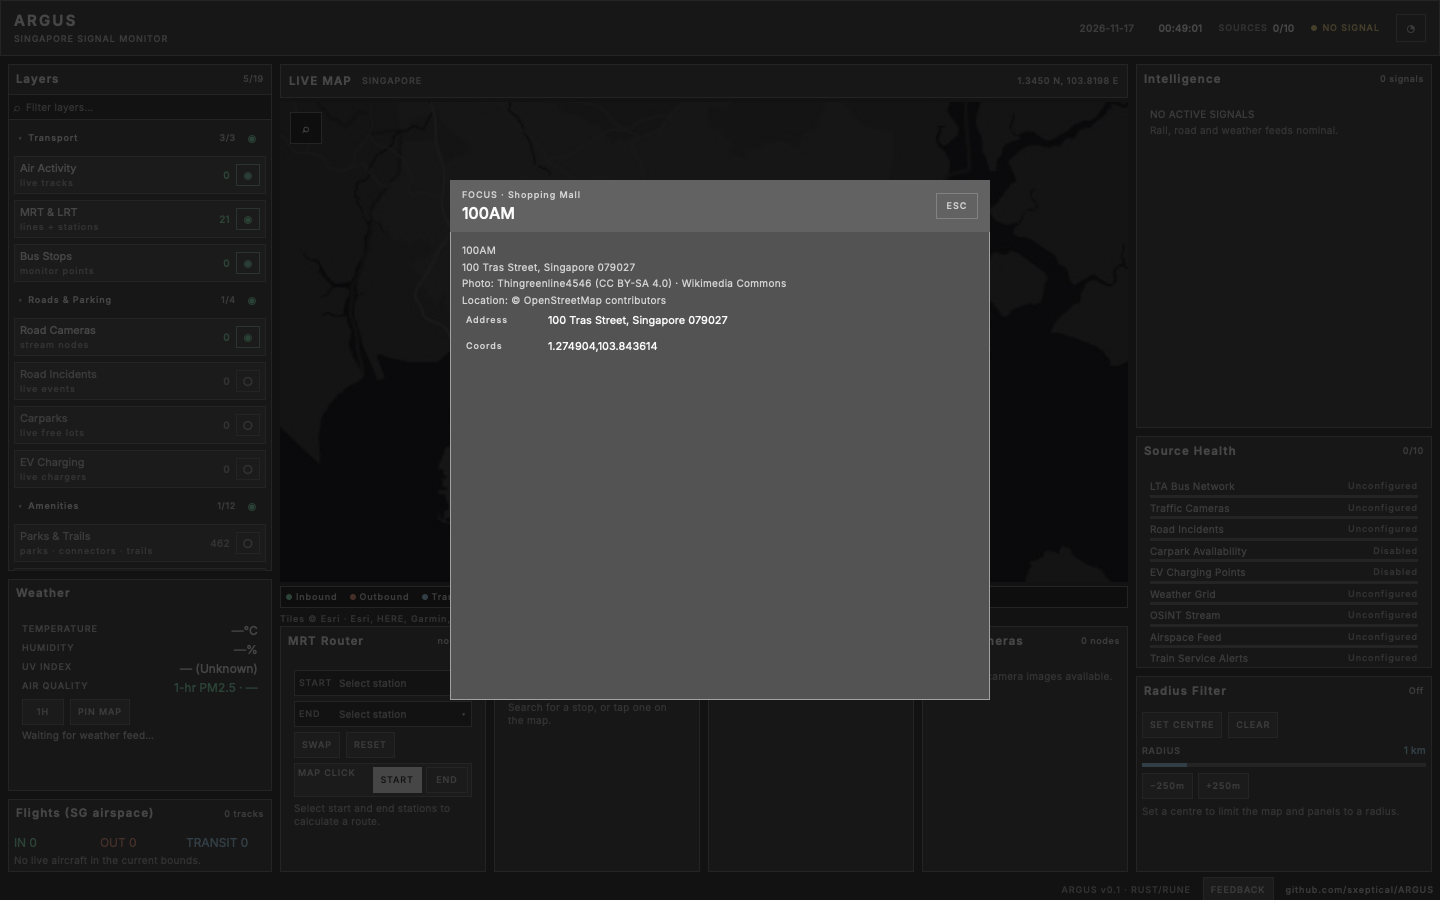
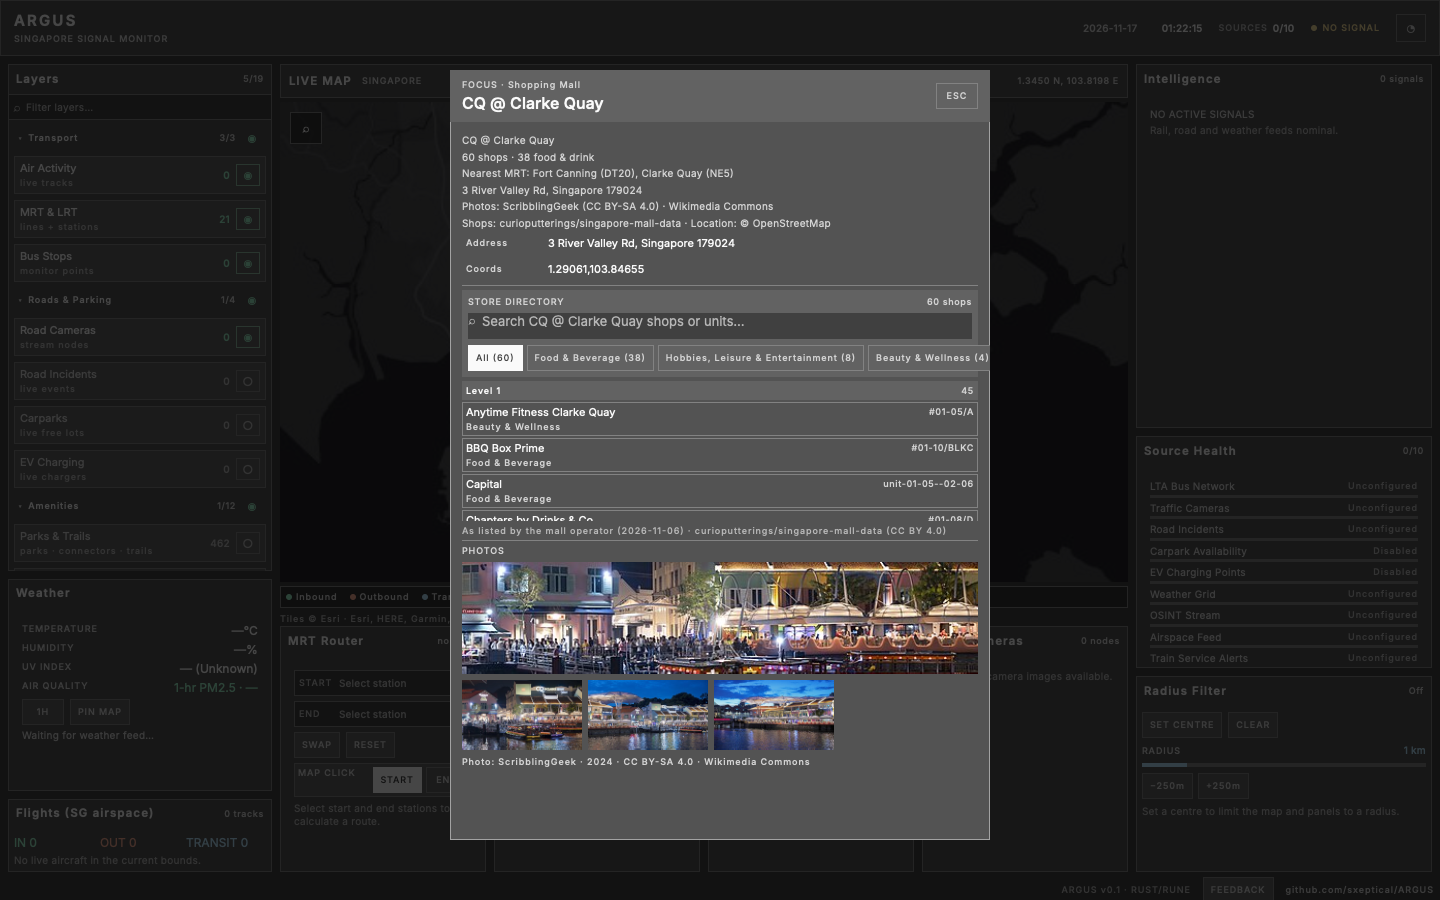
Phase 4b: scene snaps, state tests and verification notes

Changed region(s): [[0.3125, 0.0622, 0.6875, 0.9333], [0.6562, 0.3111, 0.6875, 0.3422]]

diff --git a/crates/argus-app/src/panels/dialogs.rs b/crates/argus-app/src/panels/dialogs.rs
@@ -71,7 +71,7 @@ fn focus_dialog(s: &AppState) -> Option<El> {
                 .map(|group| group.iter().filter(|o| o.id != *id).take(4).cloned().collect())
                 .unwrap_or_default();
             if !others.is_empty() {
-                body = body.child(rule()).child(label(format!("Also here ({})", others.len())));
+                body = body.child(rule_key("focus/rule/also-here")).child(label(format!("Also here ({})", others.len())));
                 for other in others {
                     let target = other.key.rsplit_once(':').map(|(_, id)| id.to_string());
                     body = body.child(text(&other.key).font(TINY).color(MUTED).truncate());
@@ -81,10 +81,10 @@ fn focus_dialog(s: &AppState) -> Option<El> {
                 }
             }
             if *kind == argus_core::types::AmenityType::Mall {
-                body = body.child(rule()).child(mall_store_directory(s, id, place.name()));
+                body = body.child(rule_key("focus/rule/mall-dir")).child(mall_store_directory(s, id, place.name()));
             }
             if !place.photos().is_empty() {
-                body = body.child(rule()).child(photo_gallery(s, place.name()));
+                body = body.child(rule_key("focus/rule/photos")).child(photo_gallery(s, place.name()));
             }
             (amenity_label(*kind).to_string(), place.name().to_string(), body)
         }
@@ -118,7 +118,7 @@ fn focus_dialog(s: &AppState) -> Option<El> {
                 }
             }
             if !s.gallery_photos.is_empty() {
-                body = body.child(rule()).child(photo_gallery(s, name));
+                body = body.child(rule_key("focus/rule/photos")).child(photo_gallery(s, name));
             }
             use argus_core::types::ParkFeatureKind;
             let label = match kind {
@@ -166,7 +166,7 @@ fn focus_dialog(s: &AppState) -> Option<El> {
         }
     };
 
-    let card = modal_card("focus/card", 450.0, 180.0, 540.0, 520.0)
+    let card = modal_card("focus/card", 450.0, 70.0, 540.0, 770.0)
         .child(dialog_header(&title, &format!("FOCUS · {subtitle}"), Msg::ClearSelection))
         .child(col().key("focus/scroll").w_full().min_h(0.0).grow(1.0).scroll(rune::ScrollSpec { stick_bottom: false })
             .child(body));
@@ -183,7 +183,7 @@ fn photo_gallery(s: &AppState, name: &str) -> El {
     let active_i = active_index(&s.photo_gallery, photos.len());
     let active = photos[active_i];
 
-    let mut large = el().key("gallery/large").w_full().h(140.0).min_h(0.0).fill(SURFACE_RAISED)
+    let mut large = el().key("gallery/large").w_full().h(112.0).min_h(0.0).fill(SURFACE_RAISED)
         .border(1.0, LINE);
     if let Some(image) = s.images.image(&active.thumb) {
         large = large.pixels_fit(image.pixels(), rune::SurfaceFit::Fill)
@@ -264,7 +264,7 @@ fn mall_store_directory(s: &AppState, mall_id: &str, mall_name: &str) -> El {
     }
     head = head.child(chips);
 
-    let mut list = col().key("mall-dir/list").w_full().h(176.0).min_h(0.0).gap(2.0)
+    let mut list = col().key("mall-dir/list").w_full().h(140.0).min_h(0.0).gap(2.0)
         .scroll(ScrollSpec { stick_bottom: false });
     if view.groups.is_empty() {
         list = list.child(hint("No shops match"));

diff --git a/crates/argus-app/src/tests.rs b/crates/argus-app/src/tests.rs
@@ -7,7 +7,10 @@ use rune::{Env, Runtime};
 use super::{view, Msg};
 use crate::msg::{dispatch, toggle_layer};
 use crate::{search, state};
-use crate::state::{AppState, MrtPickTarget, Selection, Target, scene_panels};
+use crate::state::{
+    AppState, MrtPickTarget, Selection, Target, scene_cameras, scene_hover_popup,
+    scene_mall_directory, scene_panels, scene_photo_gallery,
+};
 
 fn state() -> AppState {
     let mut s = state::init();
@@ -113,6 +116,65 @@ fn subfilter_toggle_changes_the_amenity_filter() {
     // The first tap on an all-on filter solos that option.
     assert!(selected[&value]);
     assert!(selected.values().filter(|v| **v).count() == 1);
+}
+
+#[test]
+fn camera_scene_preloads_feed_and_image_urls() {
+    let mut s = state::init();
+    scene_cameras(&mut s);
+    assert!(s.preload_feeds && s.preload_images);
+    assert!(s.visibility["cameras"]);
+    let (_, cameras) = s.image_urls();
+    // The scene mutator runs before `setup` preloads the feed, so the URLs
+    // arrive from `poll` once the camera response lands.
+    assert!(cameras.is_empty() || cameras.iter().all(|u| argus_data::lta::is_safe_camera_url(u)));
+}
+
+#[test]
+fn mall_directory_scene_loads_a_indexed_store_list() {
+    let mut s = state::init();
+    scene_mall_directory(&mut s);
+    let id = match &s.selection {
+        Some(Selection::Amenity { kind: AmenityType::Mall, id }) => id.clone(),
+        other => panic!("expected a mall selection, got {other:?}"),
+    };
+    assert_eq!(s.mall_stores_for.as_deref(), Some(id.as_str()));
+    assert!(!s.mall_stores.is_empty(), "the chosen mall has a directory bundle");
+    assert_eq!(s.mall_directory.mall_id.as_deref(), Some(id.as_str()));
+}
+
+#[test]
+fn photo_gallery_scene_derives_photo_urls() {
+    let mut s = state::init();
+    scene_photo_gallery(&mut s);
+    assert!(!s.gallery_photos.is_empty());
+    assert!(s.preload_images);
+    let (photos, cameras) = s.image_urls();
+    assert_eq!(photos.len(), s.gallery_photos.len());
+    assert!(photos.iter().all(|u| argus_data::images::is_allowed_image_url(u)));
+    assert!(cameras.is_empty(), "fixture-free scene has no camera feed");
+}
+
+#[test]
+fn hover_popup_scene_pins_a_hovered_incident() {
+    let mut s = state::init();
+    scene_hover_popup(&mut s);
+    let id = s.map.hovered.expect("an incident overlay is hovered");
+    assert!(matches!(s.overlay_targets.get(&id), Some(Target::Incident(_))));
+    let (x, y) = s.map.pointer();
+    assert!(x > 0.0 && y > 0.0, "pointer is placed at the feature");
+    assert!(crate::hover::content_for(&s, &s.overlay_targets[&id]).is_some());
+}
+
+#[test]
+fn new_scenes_render_without_panicking() {
+    for scene in [scene_mall_directory, scene_photo_gallery, scene_hover_popup] {
+        let mut s = state::init();
+        scene(&mut s);
+        let mut rt = Runtime::new(s, view, (1440.0, 900.0), Env { system_dark: true, scale: 1.0 });
+        rt.frame(0.0);
+        assert!(rt.find("map/canvas").is_some());
+    }
 }
 
 #[test]

diff --git a/crates/argus-app/src/state.rs b/crates/argus-app/src/state.rs
@@ -545,6 +545,7 @@ pub fn scene_mall_directory(s: &mut AppState) {
             .cloned()
     });
     s.selection = id.map(|id| Selection::Amenity { kind: AmenityType::Mall, id });
+    s.preload_images = true;
     s.recompute();
 }
 
@@ -559,13 +560,25 @@ pub fn scene_route_planner(s: &mut AppState) {
 pub fn scene_poi_dialog(s: &mut AppState) {
     s.data = Box::new(LiveDataSource::new());
     s.visibility.insert("malls".into(), true);
-    let id = s
-        .registry
-        .as_ref()
-        .and_then(|r| r.layers.iter().find(|l| l.amenity_type == AmenityType::Mall))
-        .and_then(|l| l.places.first())
-        .map(|p| p.id().to_string());
+    // Prefer a mall that has both a photo and an indexed store directory so
+    // the POI dialog golden exercises both new panels.
+    let id = s.static_data.as_ref().and_then(|d| {
+        d.mall_store_index
+            .malls
+            .keys()
+            .find(|id| {
+                d.malls.iter().any(|m| &m.id == *id && !m.photos.is_empty())
+            })
+            .cloned()
+    }).or_else(|| {
+        s.registry
+            .as_ref()
+            .and_then(|r| r.layers.iter().find(|l| l.amenity_type == AmenityType::Mall))
+            .and_then(|l| l.places.first())
+            .map(|p| p.id().to_string())
+    });
     s.selection = id.map(|id| Selection::Amenity { kind: AmenityType::Mall, id });
+    s.preload_images = true;
     s.recompute();
 }
 
@@ -593,6 +606,16 @@ pub fn scene_cameras(s: &mut AppState) {
     s.visibility.insert("cameras".into(), true);
     s.preload_feeds = true;
     s.preload_images = true;
+    s.recompute();
+}
+
+/// The larger camera preview opened by clicking a thumbnail in `cameras`.
+pub fn scene_camera_dialog(s: &mut AppState) {
+    scene_cameras(s);
+    // Scenes run before `setup`; fetch the feed here too so the dialog has a
+    // camera to open. `setup` re-preloads from the client's TTL cache.
+    s.data.preload_sync();
+    s.camera_dialog = s.data.snapshot().cameras.first().map(|c| c.camera_id.clone());
     s.recompute();
 }
 

diff --git a/crates/argus-app/src/hover.rs b/crates/argus-app/src/hover.rs
@@ -160,7 +160,7 @@ mod tests {
         s.visibility.insert("incidents".into(), true);
         s.recompute();
         let target = s.overlay_targets.iter()
-            .find_map(|(id, t)| matches!(t, Target::Incident(_)).then_some(t.clone()))
+            .find_map(|(_, t)| matches!(t, Target::Incident(_)).then_some(t.clone()))
             .expect("fixture has incidents");
         let content = content_for(&s, &target).expect("incident popup");
         assert!(content.title.contains("ACCIDENT") || !content.title.is_empty());
@@ -170,7 +170,7 @@ mod tests {
 
     #[test]
     fn amenity_popup_uses_core_descriptions_and_photos() {
-        let mut s = state();
+        let s = state();
         let id = s.registry.as_ref().unwrap().layers.iter()
             .find(|l| l.amenity_type == argus_core::types::AmenityType::Mall)
             .and_then(|l| l.places.first())

diff --git a/crates/argus-app/src/panels/common.rs b/crates/argus-app/src/panels/common.rs
@@ -96,6 +96,11 @@ pub fn rule() -> El {
     el().key("rule").w_full().h(1.0).fill(LINE)
 }
 
+/// Keyed separator, for dialogs that stack more than one rule in one column.
+pub fn rule_key(key: &str) -> El {
+    el().key(key).w_full().h(1.0).fill(LINE)
+}
+
 /// Empty / loading / unconfigured hint used while feeds are not wired.
 pub fn hint(text_str: impl Into<String>) -> El {
     text(text_str.into()).font(TINY).color(FAINT).max_lines(3)

diff --git a/crates/argus-app/src/main.rs b/crates/argus-app/src/main.rs
@@ -178,6 +178,7 @@ fn main() {
             ("panels", state::scene_panels),
             ("live", state::scene_live),
             ("cameras", state::scene_cameras),
+            ("camera-dialog", state::scene_camera_dialog),
             ("loading", |s| { s.collapsed_groups.insert("boot/loading".into()); }),
         ],
         setup: Some(setup),

diff --git a/RUST_REWRITE.md b/RUST_REWRITE.md
@@ -561,10 +561,68 @@ camera-row keys, toasts moved over the map so the right column stays readable.
 
 ### Remaining gaps
 
-Camera images are drawn as placeholders (image URLs are in the snapshot but
-not decoded), no photo gallery in the focus dialog, OneMap search is not wired
-into the search box (the static bundles + live bus stops cover the original
-index), and feedback's Neon insert is implemented by argus-data but was not
-exercised against a live database. The `loading` scene exists for structural
-checks; the desktop app renders the dashboard directly because feeds settle
-asynchronously rather than gating a single boot screen.
+~~Camera images are drawn as placeholders~~, ~~no photo gallery in the focus
+dialog~~ — both were closed in Phase 4b below. OneMap search was **never a
+runtime feature**: `lib/map-search.ts` builds a static index from the MRT
+GeoJSON + live bus stops and `MapSearch.tsx` only filters that prop (the only
+"OneMap" references in the TS tree are authoring-time `coordsSource` labels in
+the schools bundle). The Rust `search` module already covers it, so there is
+nothing to port. Feedback's Neon insert is implemented by argus-data but was
+not exercised against a live database. The `loading` scene exists for
+structural checks; the desktop app renders the dashboard directly because
+feeds settle asynchronously rather than gating a single boot screen.
+
+## Phase 4b — remaining UI features (2026-11-17)
+
+### Raster image pipeline
+
+`argus-data/src/images.rs` adds `is_allowed_image_url` (camera hosts from
+`lta::is_safe_camera_url` plus Wikimedia/NEA photo hosts) and
+`Client::get_image_bytes` (8 MiB cap, descriptive UA, `HttpClient::get_bytes_limited`
+transport seam). `argus-app/src/images.rs` owns an `ImageStore`: a `Latest` batch
+fetches bytes on Rune workers, `ImageCache` decodes them, and handles are
+cached by URL and painted with `El::pixels_fit(.., SurfaceFit::Fill)` (the
+original's `object-cover`). `preload_sync` fetches + `Image::wait()`s in `setup`
+for deterministic headless frames. Camera frames are re-fetched whenever the
+60 s camera feed lands (presigned URLs can stay the same while the JPEG
+changes); failed URLs get a 30 s negative-cache cooldown.
+
+- Road Cameras panel shows real thumbnails; clicking opens a large preview
+  with coords, © LTA attribution and a manual REFRESH button.
+- Mall focus dialog embeds the store directory: query, category chips, halal
+  toggle, level-grouped rows and the datastore credit. State and view model in
+  `mall_directory.rs` (reset per mall, like the TS `key={mallId}`).
+- Amenity/park photos render in the focus dialog with thumbnails and the
+  per-photo attribution line from `photo_gallery.rs`; broken URLs drop out once
+  (TS `onError` equivalent).
+- Map hover popups use argus-map's `hovered` overlay id and pointer position,
+  with title/lines/photos built by `hover.rs` from the same argus-core
+  `PopupLine` builders the TS app used (incidents, carparks, EV, amenities,
+  parks + small labels for flights/stops/stations/cameras).
+
+Visual fix: the Flights panel called
+`format!("{}ft", format_altitude_feet(..))` although the helper already
+appends ` ft`, rendering `2,925 ftft` and truncating the column; it now uses
+the helper directly. Audited every snap for other duplicated units / overlap.
+
+### Scenes and snaps
+
+`--list-scenes` now prints: `dashboard`, `layers-on`, `route-planner`,
+`poi-dialog`, `mall-directory`, `photo-gallery`, `hover-popup`, `panels`,
+`live`, `cameras`, `camera-dialog`, `loading`. All were rendered at
+`--scale 1 --theme dark` into `docs/snaps/` and visually inspected. `cameras`,
+`camera-dialog`, `poi-dialog`, `mall-directory`, `photo-gallery` and the
+hover/photo scenes preload real images in `setup`; `panels` and `hover-popup`
+use deterministic fixtures. `map.png` and `shell.png` are kept from earlier
+phases. No keys or presigned camera URLs are rendered into a PNG.
+
+### Verification
+
+- `cargo build --workspace`: green, no warnings.
+- `cargo test --workspace`: argus-core 58 + 9 integration, argus-data 43 + 17
+  integration (12 live smoke ignored), argus-app 23, argus-map 23 — all green.
+  New tests cover image dedupe/fresh/negative-cache, image URL allowlist,
+  mall-directory filtering/reset, gallery clamp + attribution, hover popup
+  content, and the new scenes' state + Rune `Runtime` smoke.
+- `cargo run -p argus-app -- --snap docs/snaps/cameras.png --scene cameras`
+  shows real decoded LTA JPEG frames.
